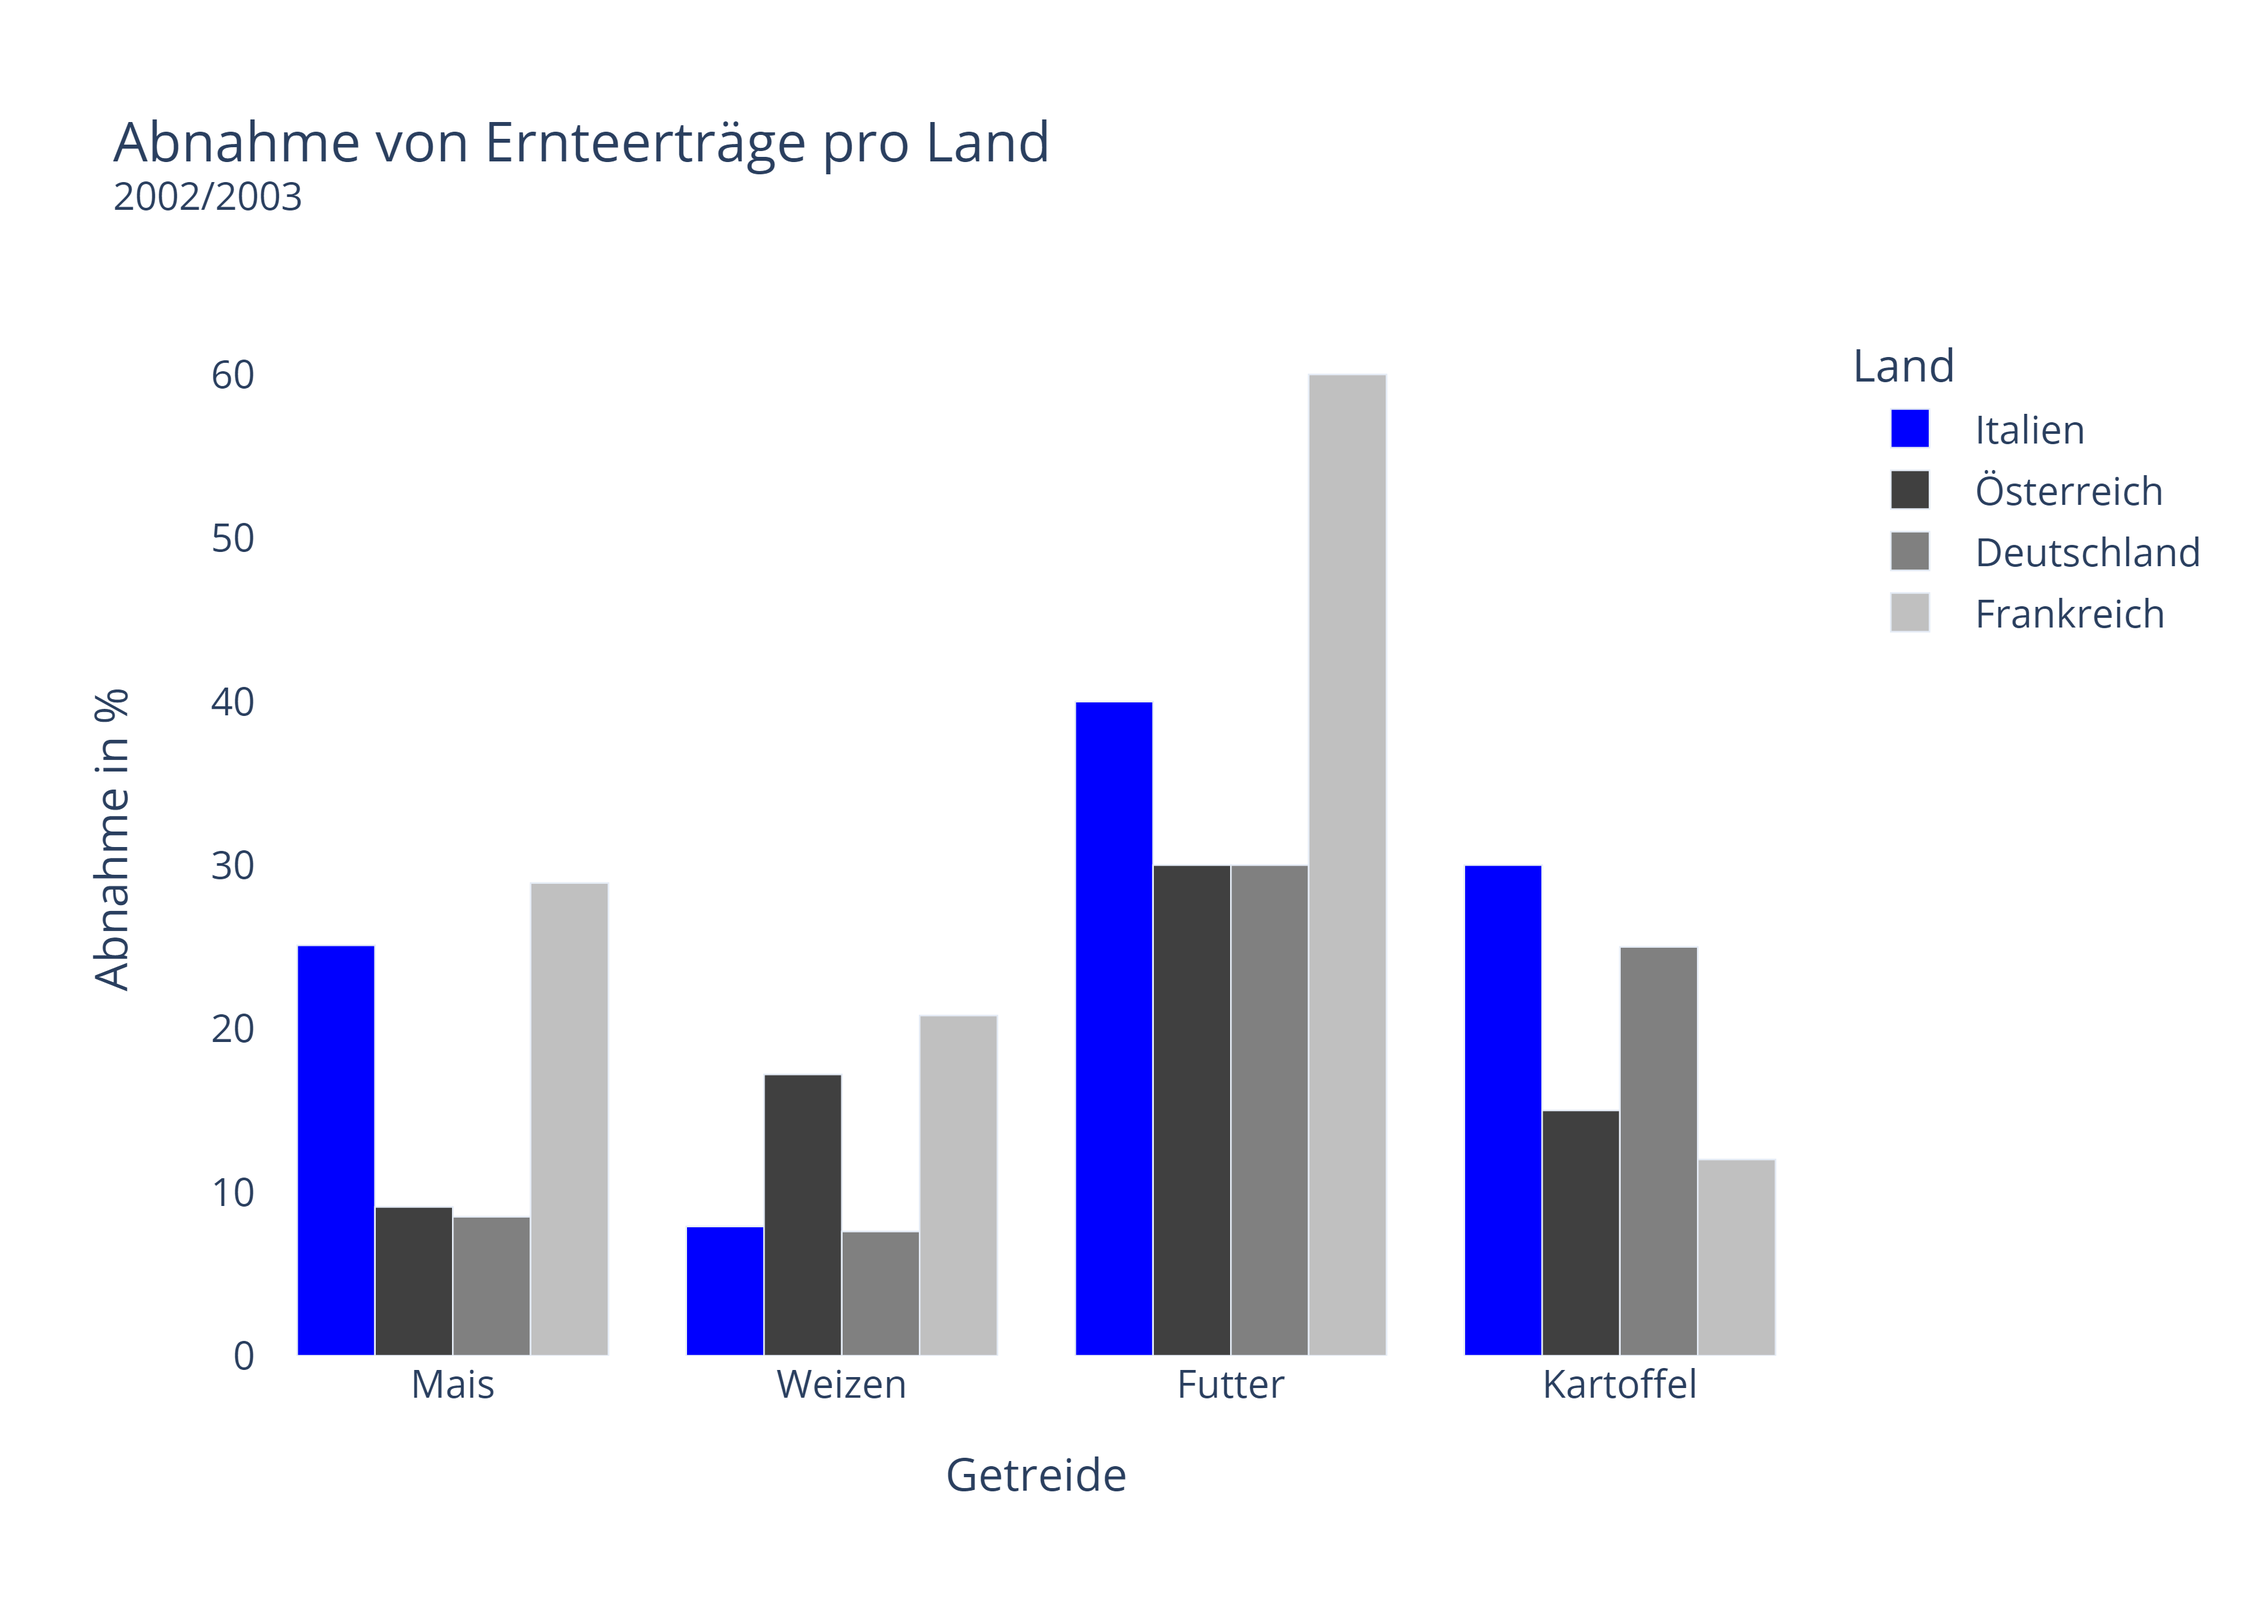
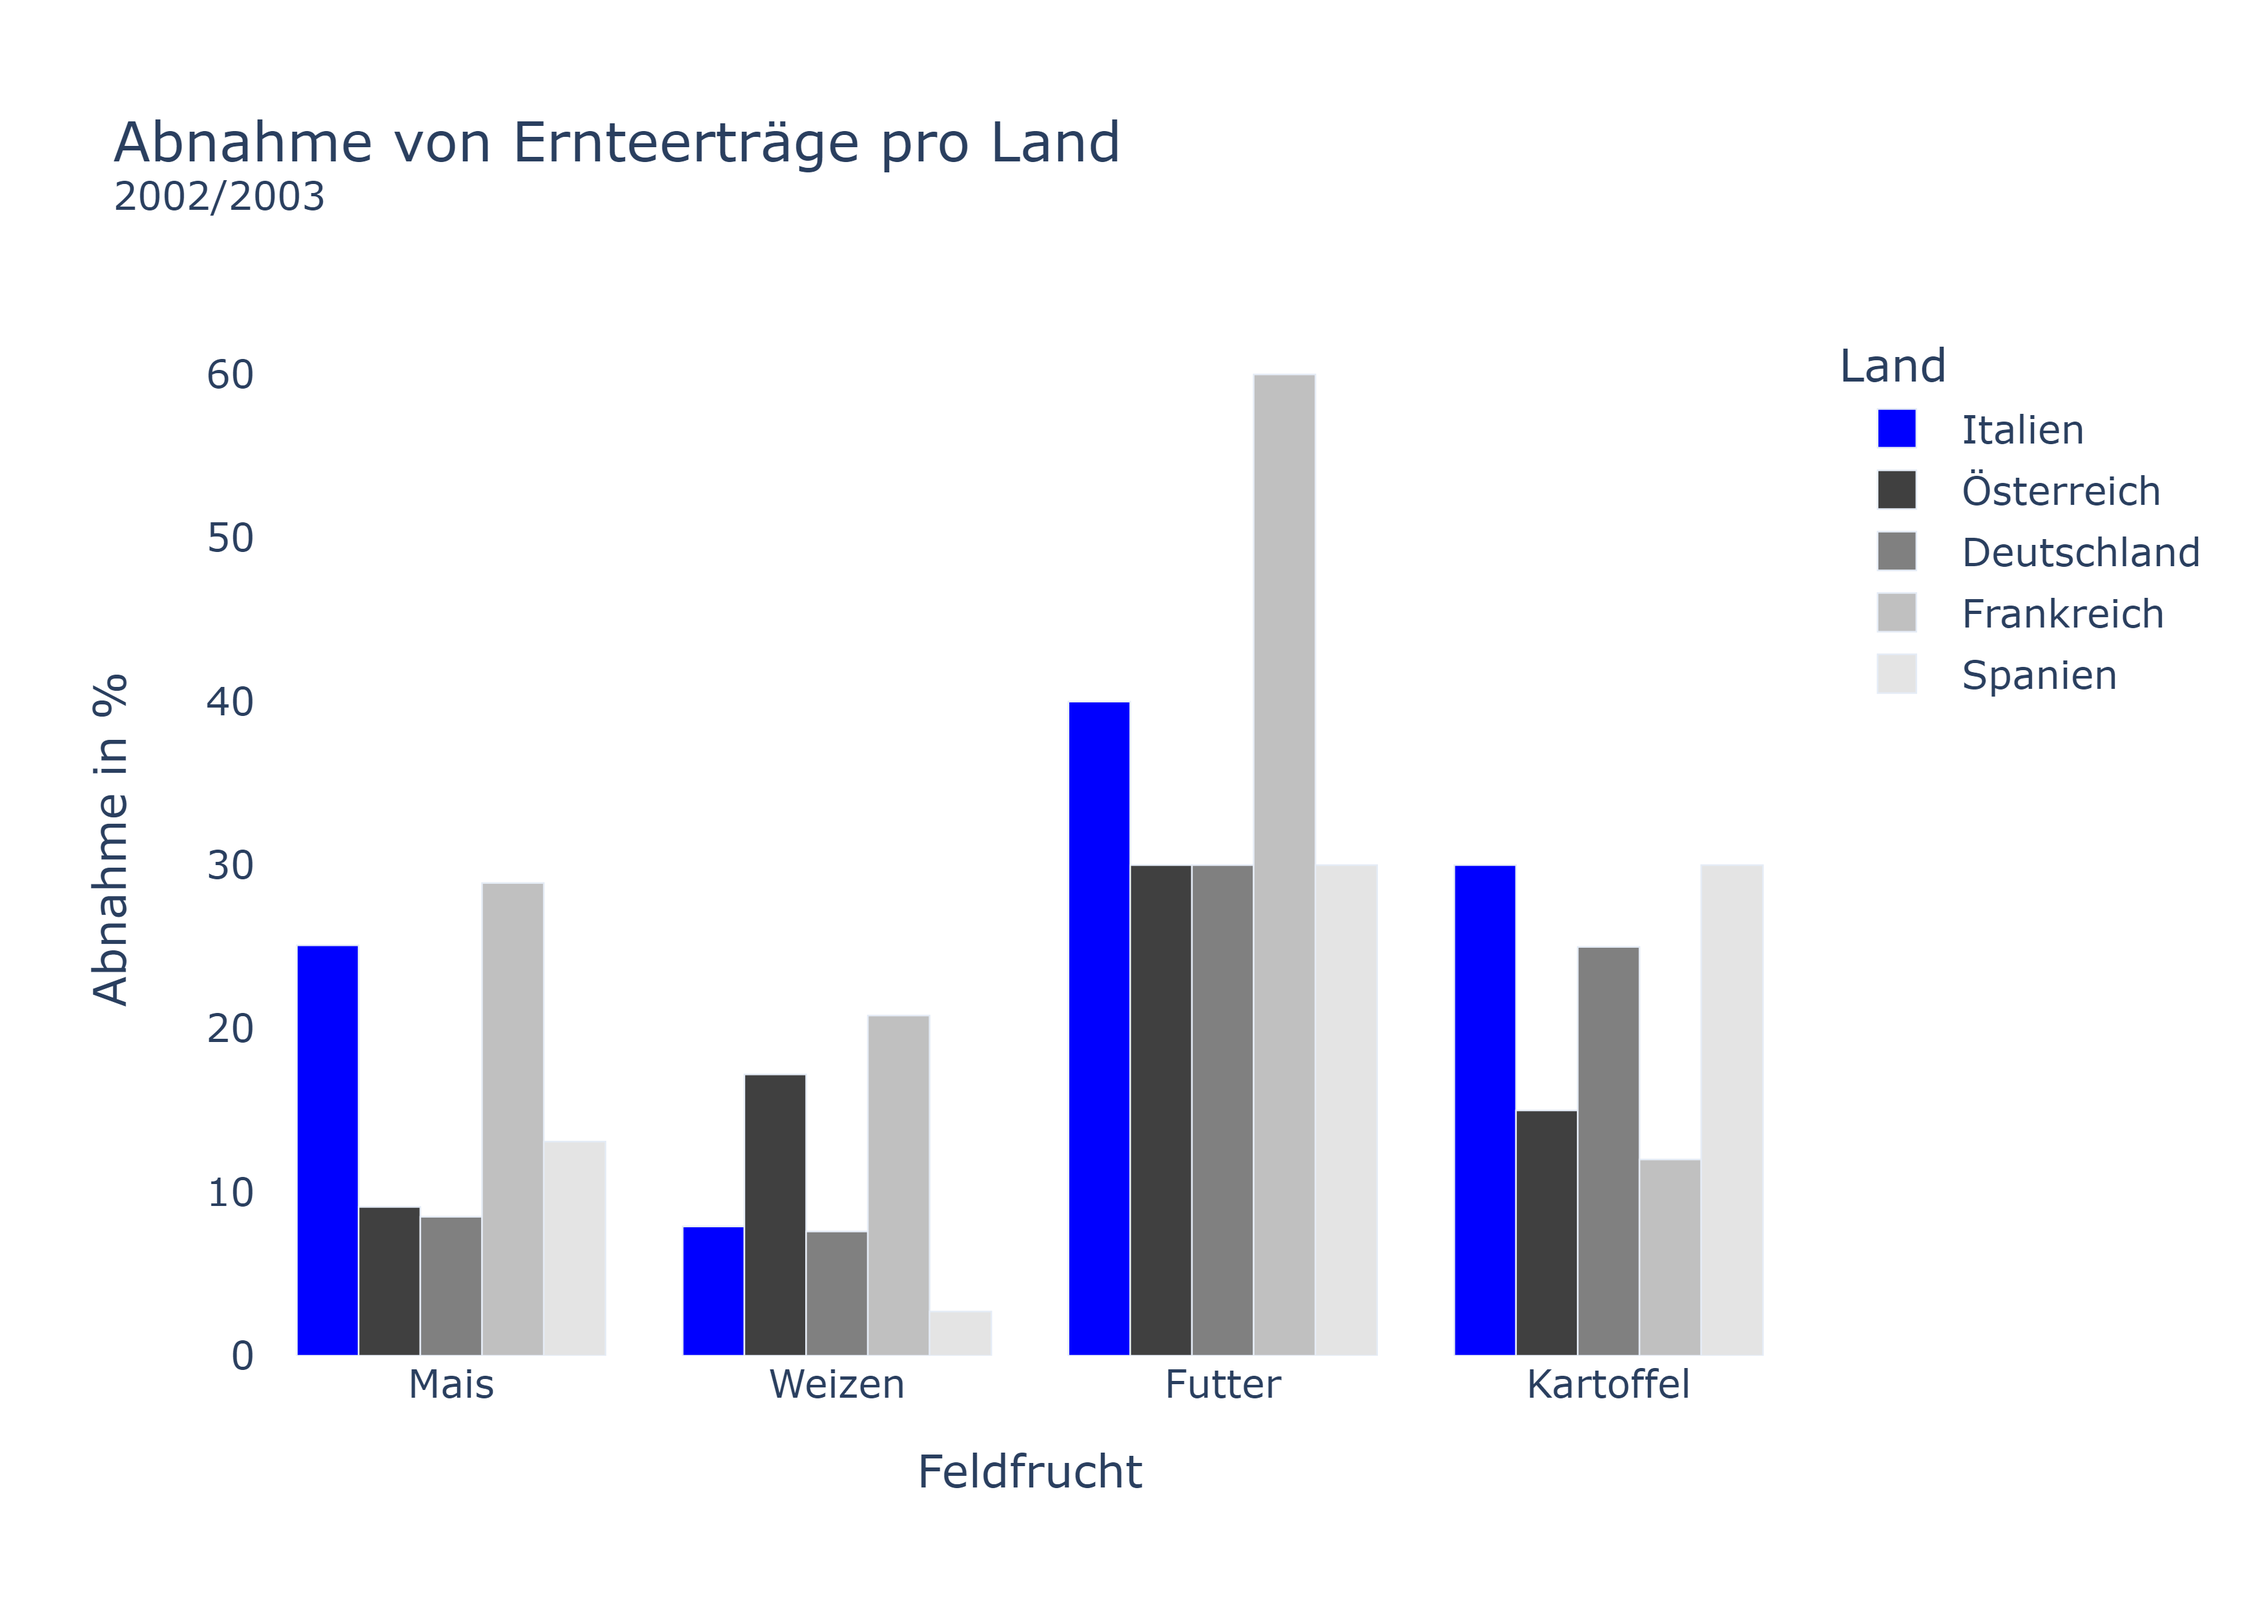
update crop

diff --git a/DashboardServer-Development.py b/DashboardServer-Development.py
@@ -1,27 +1,13 @@
 #%%
-from ast import Global
-from itertools import count
-from operator import index
-from pickle import FALSE, TRUE
-from pkgutil import get_data
 from dash import dcc,html
 from dash_extensions.enrich import Output, DashProxy, Input, MultiplexerTransform, State
 import flask
-from matplotlib.axis import XAxis
-from matplotlib.pyplot import grid
-import plotly as plt
-import json
 import plotly.express as px
 import pandas as pd
 import plotly.graph_objects as go
 import psycopg2
-import os
-import socket
+import os,socket,datetime,json
 import geopandas as gpd
-import dash_daq as daq
-import dash
-import matplotlib.pyplot as mplt
-from plotly import tools as tls
 import numpy as np
 from traitlets import Bool
 
@@ -289,8 +275,8 @@ def create_fig3(year, grid):
                 fillcolor="orange", opacity=0.25, line_width=0),
     fig3.update_layout(xaxis = dict(
                     tickmode = 'array',
-                    tickvals = [1, 90, 180, 270, 365],
-                    ticktext = ["Januar", "April", "Juli", "September", "Dezember"]))
+                    tickvals = [datetime.date(m//12, m%12+1, 15).timetuple().tm_yday for m in range(year*12+1-1, year*12+12)],
+                    ticktext = ['Januar', 'Februar', 'März', 'April', 'Mai', 'Juni', 'Juli', 'August', 'September', 'Oktober', 'November', 'Dezember']))
     return fig3
     
 def create_fig4():
@@ -586,10 +572,10 @@ page_Datastory_layout = html.Div([header, html.Div([
             html.H5("Gesundheit"),
             html.P(["Extreme Hitzewellen haben eine enorme Auswirkung auf die Gesundheit sowie auf die Sterblichkeit. Hier wird spezifisch von einem Hitzetod gesprochen. Unter diesem versteht man einen Tod, der durch innere Überhitzung des Körpers ausgelöst wird. Die häufigste Ursache dafür sind hohe Temperaturen in Verbindung mit Flüssigkeitsmangel und oder körperliche Anstrengung. ", html.A(
                 "Quelle", href="https://www.toppharm.ch/krankheitsbild/hitzetod#:~:text=Unter%20Hitzetod%20verstehen%20Fachleute%20einen,Hitzeersch%C3%B6pfung%2C%20Hitzschlag%20und%20Sonnenstich%20ein."), html.P("Die schlechte Qualität der Infrastruktur und Gesundheitsversorgung, der allgemeine Gesundheitszustand der Bevölkerung und die demografische Struktur können ebenso eine Rolle spielen. Der Hitzesommer im Jahre 2003 sorgte dafür, dass die Mortalität in Frankreich sich deutlich erhöhte.")]),
-            dcc.Graph(figure=create_fig3(2003,76094), id = "grid1", config = {'displayModeBar': False,'staticPlot': True}),
+            dcc.Graph(figure=create_fig3(2003,76094), id = "grid1France", config = {'displayModeBar': False,'staticPlot': True}),
             html.P("Als Beispiel wurde hier ein Bereich aus dem südöstlichen Teil von Frankreich im Jahr 2003 gewählt. (lat=44.98188, lon= 5.300815) In der Grafik ist ein etwas dickerer oranger Balken zu sehen. Dieser zeigt die Dauer dieser einzelnen Hitzewelle in jenem Sommer. Die untere Achse spiegelt den Jahrestag wider. Genau während der knapp zwei heissesten Wochen an jenem Sommer starben fast 15'000 Menschen. Das Ganze war zwischen dem 02.08.2003 und 15.08.2003, welches zwischen dem 212.Jahrestag und 225. Jahrestag liegt. Dies war ein nationales Trauma für Frankreich. Betroffen waren vornehmlich betagte Menschen, die alleine lebten. Folgende Grafik zeigt auf, wie sich die Anzahl der Toten während dieser Hitzewelle im Sommer 2003 verteilte. Als die extreme Hitze abnahm, ist auch zu sehen wie sich die Anzahl der Toten rückläufig verhaltet."),
-            html.H6("Anzahl Toter im August 2003 in Frankreich"),
-            html.Img(src="/assets/deaths_transp.png", style={'width': '60%'}),
+            html.Div(children=[html.H6("Anzahl Toter im August 2003 in Frankreich",style={'color':'rgba(42,63,95,255)'}),
+            html.Img(src="/assets/deaths_transp.png", style={'width': '60%','margin-left': '5.0rem'})]),
             html.P("Durch verschiedene Massnahmen wie regelmässige Besuche für alleinstehende Rentner, Wasser für Obdachlose oder auch Fahrverbote versucht das Land die Mortalität durch Hitze zu senken, damit solche Ereignisse einzigartig bleiben."),
             html.A("Quelle 1, ", href="https://www.srf.ch/news/panorama/hitzewelle-in-europa-frankreich-hat-aus-den-hitzetoten-von-2003-gelernt"),
             html.A(
@@ -600,9 +586,9 @@ page_Datastory_layout = html.Div([header, html.Div([
         html.Div([
             html.H5("Landwirtschaft"),
             html.P("Immer mehr Hitzewellen werden gemessen und die negativen Auswirkungen dieser Veränderung wirken sich bereits auch auf die landwirtschaftliche Produktion in Europa aus, insbesondere im Süden. Kulturpflanzen reagieren empfindlich auf klimatische Veränderungen, wie Temperaturänderungen, Dürre und Niederschläge. Von diesen Veränderungen werden sich die steigenden Temperaturen am stärksten auf die Landwirtschaftserträge auswirken. Der nördliche Teil Italiens war im Sommer 2003 von einer derartigen Hitzeaussetzung betroffen (siehe Grafik). "),
-            dcc.Graph(figure = create_country_fig("Italien",2003,96097,False), id = "country", config = {'displayModeBar': False,'staticPlot': True}),
-            html.P("In Italien, in der Po-Ebene (ein fruchtbares Tiefland in Norditalien), wo die Temperaturen hoch waren, verzeichnete Mais einen Rekordrückgang der Ernteerträge. Hinzukommend wurde festgestellt, dass Winterkulturen (Weizen) ihr Wachstum zum Zeitpunkt der Hitzewelle fast abgeschlossen hatten. Daher erlitten diese einen geringeren Rückgang der Produktivität als Sommerkulturen (Mais), die sich zu dieser Zeit in der maximalen Blattentwicklung befanden. Folgende Grafik zeigt, mit wieviel Prozent Rückgang einiger Pflanzen zu rechnen war. Auch ein finanzieller Aspekt ist zu sehen."),
-            html.H6("Abnahme von Ernteerträgen im Jahr 2002 und 2003"),
+            dcc.Graph(figure = create_country_fig("Italien",2003,96097,False), id = "countryItaly", config = {'displayModeBar': False,'staticPlot': True}),
+            html.P("In Italien, in der Po-Ebene (ein fruchtbares Tiefland in Norditalien), wo die Temperaturen hoch waren, verzeichnete Mais einen Rekordrückgang der Ernteerträge. Hinzukommend wurde festgestellt, dass Winterkulturen (Weizen) ihr Wachstum zum Zeitpunkt der Hitzewelle fast abgeschlossen hatten. Daher erlitten diese einen geringeren Rückgang der Produktivität als Sommerkulturen (Mais), die sich zu dieser Zeit in der maximalen Blattentwicklung befanden. Folgende Grafik zeigt, mit wieviel Prozent Rückgang einiger Pflanzen zu rechnen war. Auch ein finanzieller Verlust ist zu sehen."),
+            # html.H6("Abnahme von Ernteerträgen im Jahr 2002 und 2003"),
             html.Img(src="/assets/fig_crop.png", style={'width':'100%'}),
             html.P("Der künftige Temperaturanstieg könnte neben den negativen auch positiven Auswirkungen auf die Landwirtschaft haben, insbesondere aufgrund längerer Vegetationsperioden und besseren Anbaubedingungen. Allerdings wird die Zahl der Extremereignisse, die sich negativ auf die Landwirtschaft in Europa auswirken, zunehmen. Dies hat zur Folge, dass die Sommerkulturen viele Ernteverluste erleiden können. "),
             html.A("Quelle 1, ", href="https://www.landwirtschaft.de/landwirtschaft-verstehen/wie-funktioniert-landwirtschaft-heute/wie-wirkt-sich-der-klimawandel-auf-die-landwirtschaft-aus/"),

diff --git a/Landwirtschaft_Plot/create_plot.py b/Landwirtschaft_Plot/create_plot.py
@@ -17,7 +17,7 @@ indexes = ["Land","Finanziell"]
 # %%
 new_data = pd.melt(data,indexes,all_names)
 new_data["Finanziell"]=abs(new_data["Finanziell"])
-new_data["Land"] = new_data["Land"]+"/ "+ new_data["Finanziell"].astype(int).astype(str) + " Mio"
+new_data["Land"] = new_data["Land"]
 
 # %%
 fig = px.bar(new_data, 
@@ -25,10 +25,10 @@ fig = px.bar(new_data,
             y='value',
             color="Land",
             barmode='group',
-            #title="Abnahme von Ernteerträge pro Land <br><sup>2002/2003 </sup>",
+            title="Abnahme von Ernteerträge pro Land <br><sup>2002/2003 </sup>",
             color_discrete_sequence = ["#0000FF","#404040","#808080","#C0C0C0","#E4E4E4"],
-            labels={'variable':'Getreide',"value":"Abnahme in %"})
-fig.update_layout({'autosize':True,'plot_bgcolor':'rgba(0,0,0,0)', 'paper_bgcolor':'rgba(0,0,0,0)',"legend_title":"Land/ Finanzielle Verluste durch Abnahme"})
+            labels={'variable':'Feldfrucht',"value":"Abnahme in %"})
+fig.update_layout({'autosize':True,'plot_bgcolor':'rgba(0,0,0,0)', 'paper_bgcolor':'rgba(0,0,0,0)',"legend_title":f"Land"})
 fig.show(config = {'displayModeBar': False,'staticPlot': True})
 #%%
 import os
